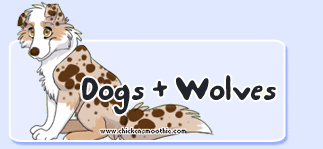
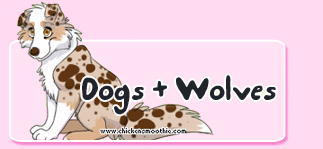
update all images

diff --git a/style.css b/style.css
@@ -27,6 +27,7 @@
     --trade-hl: #ffe6f5;
     --trade-hl-color: #2c2229;
     --trade-fancy: #ffdaf1;
+    --ui-widget-border: #d769ad;
     --ui-border: #825d74;
     --ui-soft-border: #f587cb;
     --ui-active-border: #ac8da0;
@@ -1259,7 +1260,7 @@ body.lostandfound .popover-body {
 }
     
     .ui-widget-content {
-  border: 1px solid #7690e4;
+  border: 1px solid var(--ui-widget-border);
   background: #ffb5e3 var(--ui-trade-main) 50% 50% repeat-x;
     }
     
